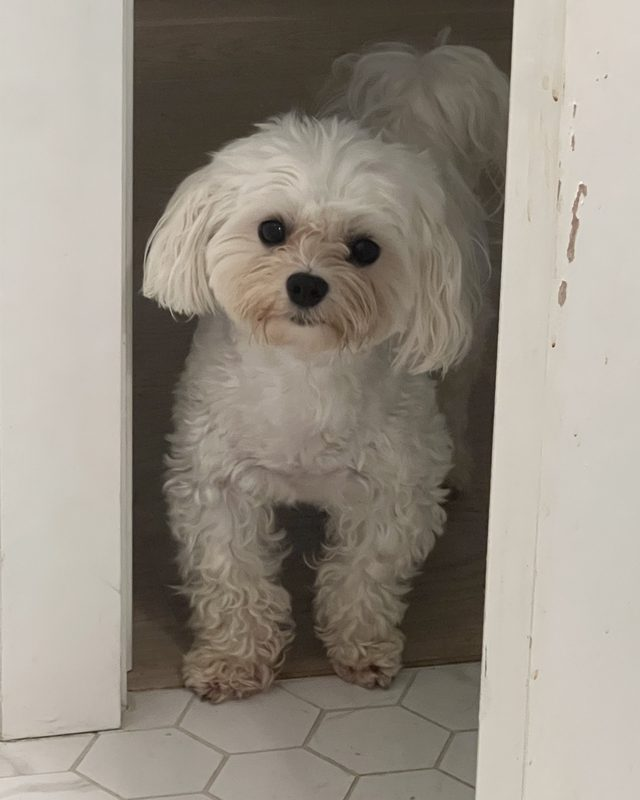
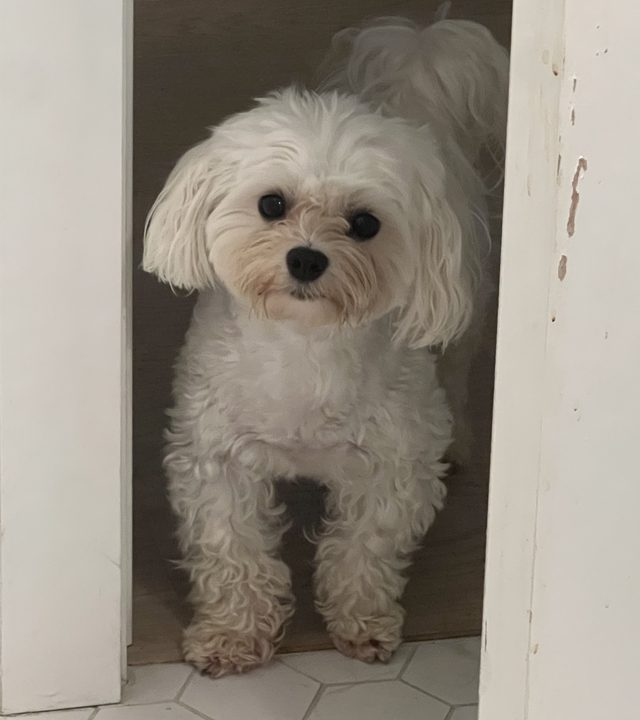
Teaching Fellow; smaller Nori photo and shorter thumbnails

diff --git a/personal.html b/personal.html
@@ -10,7 +10,7 @@
   <link rel="preconnect" href="https://fonts.googleapis.com">
   <link rel="preconnect" href="https://fonts.gstatic.com" crossorigin>
   <link href="https://fonts.googleapis.com/css2?family=Source+Sans+3:ital,wght@0,400;0,600;1,400&family=Source+Serif+4:wght@400;600&display=swap" rel="stylesheet">
-  <link rel="stylesheet" href="style.css?v=20260919b">
+  <link rel="stylesheet" href="style.css?v=20260919c">
 </head>
 <body>
 
@@ -48,10 +48,10 @@
       </div>
     </div>
     <div class="thumbs">
-      <img src="images/personal/nori-tilt.jpg" alt="Nori tilting her head and smiling" width="640" height="800" loading="lazy">
-      <img src="images/personal/nori-run.jpg" alt="Nori running toward the camera" width="640" height="800" loading="lazy">
-      <img src="images/personal/nori-sofa.jpg" alt="Nori yawning on the sofa next to her toy" width="640" height="800" loading="lazy">
-      <img src="images/personal/nori-door.jpg" alt="Nori peeking through a doorway" width="640" height="800" loading="lazy">
+      <img src="images/personal/nori-tilt.jpg" alt="Nori tilting her head and smiling" width="640" height="720" loading="lazy">
+      <img src="images/personal/nori-run.jpg" alt="Nori running toward the camera" width="640" height="720" loading="lazy">
+      <img src="images/personal/nori-sofa.jpg" alt="Nori yawning on the sofa next to her toy" width="640" height="720" loading="lazy">
+      <img src="images/personal/nori-door.jpg" alt="Nori peeking through a doorway" width="640" height="720" loading="lazy">
     </div>
   </section>
 

diff --git a/teaching.html b/teaching.html
@@ -10,7 +10,7 @@
   <link rel="preconnect" href="https://fonts.googleapis.com">
   <link rel="preconnect" href="https://fonts.gstatic.com" crossorigin>
   <link href="https://fonts.googleapis.com/css2?family=Source+Sans+3:ital,wght@0,400;0,600;1,400&family=Source+Serif+4:wght@400;600&display=swap" rel="stylesheet">
-  <link rel="stylesheet" href="style.css?v=20260919b">
+  <link rel="stylesheet" href="style.css?v=20260919c">
 </head>
 <body>
 
@@ -48,7 +48,7 @@
 
     <div class="course">
       <h3>Harvard Business School</h3>
-      <p class="meta">Teaching Assistant</p>
+      <p class="meta">Teaching Fellow</p>
       <ul>
         <li>MBA Elective Curriculum: Business Analysis and Valuation (Instructor: Yuan Zou)</li>
         <li>Independently taught MBA review sessions on financial ratio analysis, alternative DuPont decomposition, and residual income valuation</li>

diff --git a/style.css b/style.css
@@ -337,7 +337,7 @@ details p { margin: 8px 0 0; }
 .films p.film-note { margin: 0; }
 .gallery-main {
   display: grid;
-  grid-template-columns: 1.15fr 1fr;
+  grid-template-columns: 0.8fr 1fr;
   gap: 40px;
   align-items: center;
 }
@@ -349,7 +349,7 @@ details p { margin: 8px 0 0; }
   gap: 14px;
   margin-top: 18px;
 }
-.thumbs img { aspect-ratio: 4 / 5; object-fit: cover; }
+.thumbs img { aspect-ratio: 8 / 9; object-fit: cover; }
 .pair {
   display: grid;
   grid-template-columns: 1.25fr 1fr;

diff --git a/cv.html b/cv.html
@@ -10,7 +10,7 @@
   <link rel="preconnect" href="https://fonts.googleapis.com">
   <link rel="preconnect" href="https://fonts.gstatic.com" crossorigin>
   <link href="https://fonts.googleapis.com/css2?family=Source+Sans+3:ital,wght@0,400;0,600;1,400&family=Source+Serif+4:wght@400;600&display=swap" rel="stylesheet">
-  <link rel="stylesheet" href="style.css?v=20260919b">
+  <link rel="stylesheet" href="style.css?v=20260919c">
 </head>
 <body>
 

diff --git a/index.html b/index.html
@@ -15,7 +15,7 @@
   <link rel="preconnect" href="https://fonts.googleapis.com">
   <link rel="preconnect" href="https://fonts.gstatic.com" crossorigin>
   <link href="https://fonts.googleapis.com/css2?family=Source+Sans+3:ital,wght@0,400;0,600;1,400&family=Source+Serif+4:wght@400;600&display=swap" rel="stylesheet">
-  <link rel="stylesheet" href="style.css?v=20260919b">
+  <link rel="stylesheet" href="style.css?v=20260919c">
 </head>
 <body>
 

diff --git a/research.html b/research.html
@@ -10,7 +10,7 @@
   <link rel="preconnect" href="https://fonts.googleapis.com">
   <link rel="preconnect" href="https://fonts.gstatic.com" crossorigin>
   <link href="https://fonts.googleapis.com/css2?family=Source+Sans+3:ital,wght@0,400;0,600;1,400&family=Source+Serif+4:wght@400;600&display=swap" rel="stylesheet">
-  <link rel="stylesheet" href="style.css?v=20260919b">
+  <link rel="stylesheet" href="style.css?v=20260919c">
 </head>
 <body>
 
